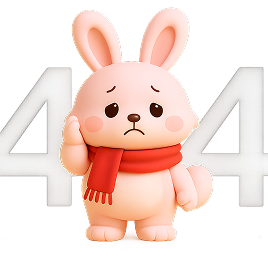
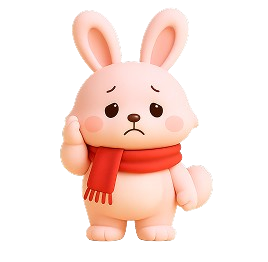
[WL7-210]이번주니어 수정, 404페이지 개발

diff --git a/src/components/junior/StampRouletteCard.tsx b/src/components/junior/StampRouletteCard.tsx
@@ -5,8 +5,7 @@ import CommonModal from '@/components/common/CommonModal';
 import type { Prize } from '@/components/junior/ProbabilityRoulette';
 import ProbabilityRoulette from '@/components/junior/ProbabilityRoulette';
 import { sendRouletteResult } from '@/apis/roulette';
-// 'showToast' 유틸리티의 경로에 맞게 수정해주세요.
-import { showSuccessToast, showErrorToast, showWarningToast } from '@/utils/toast'; // 경로 예시입니다.
+import { showSuccessToast, showErrorToast, showWarningToast } from '@/utils/toast';
 
 type Stamp = {
   name: string;
@@ -17,7 +16,7 @@ type Stamp = {
 type Props = {
   stamps: Stamp[];
   eventId: number;
-  hasExistingResult: boolean;
+  hasExistingResult: boolean; // 부모로부터 받은, 서버에 저장된 룰렛 참여 결과
   isRouletteEnabledByServer: boolean;
 };
 
@@ -29,9 +28,11 @@ const StampRouletteCard: React.FC<Props> = ({
 }) => {
   const [isModalOpen, setIsModalOpen] = useState(false);
   const navigate = useNavigate();
+  // ✨ 컴포넌트 내부 상태를 부모로부터 받은 초기값(hasExistingResult)으로 설정
   const [isRouletteSpun, setIsRouletteSpun] = useState(hasExistingResult);
   const [isProcessing, setIsProcessing] = useState(false);
 
+  // 부모의 prop이 변경될 경우를 대비해 상태를 동기화
   useEffect(() => {
     setIsRouletteSpun(hasExistingResult);
   }, [hasExistingResult]);
@@ -41,42 +42,57 @@ const StampRouletteCard: React.FC<Props> = ({
     displayStamps.push({ name: '-', isStamped: false });
   }
 
-  const isButtonActive = isRouletteEnabledByServer && !isRouletteSpun && !isProcessing;
+  const hasAllStamps = stamps.filter((stamp) => stamp.isStamped).length >= 4;
 
+  // ✨ `hasExistingResult`가 true이면 `isRouletteCompleted`는 처음부터 true가 됨
+  const isRouletteCompleted = hasExistingResult || isRouletteSpun;
+
+  // ✨ `isRouletteCompleted`가 true이므로 `isButtonActive`는 false가 됨
+  const isButtonActive =
+    isRouletteEnabledByServer && !isRouletteCompleted && !isProcessing && hasAllStamps;
+
+  // ✨ `isRouletteCompleted`가 true이므로 `buttonText`는 '참여 완료'가 됨
   let buttonText = '룰렛 돌리기';
   if (isProcessing) {
     buttonText = '결과 저장 중...';
-  } else if (isRouletteSpun) {
+  } else if (isRouletteCompleted) {
     buttonText = '참여 완료';
   } else if (!isRouletteEnabledByServer) {
-    buttonText = '룰렛 비활성'; // 비활성 상태 텍스트를 명확하게 변경
+    buttonText = '룰렛이 비활성화되었습니다';
+  } else if (!hasAllStamps) {
+    buttonText = '스탬프를 모두 모아주세요';
   }
 
   const handleRouletteClick = () => {
-    if (!isButtonActive) return;
-    if (isRouletteSpun) {
-      // alert('이미 룰렛에 참여하셨습니다.'); // 변경
+    if (isRouletteCompleted) {
       showWarningToast('이미 룰렛에 참여하셨습니다.');
       return;
     }
-    if (isProcessing) return;
+    if (isProcessing) {
+      showWarningToast('처리 중입니다. 잠시만 기다려주세요.');
+      return;
+    }
     if (!isRouletteEnabledByServer) {
-      // alert('룰렛이 아직 활성화되지 않았습니다.'); // 변경
       showWarningToast('룰렛이 아직 활성화되지 않았습니다.');
+      return;
+    }
+    if (!hasAllStamps) {
+      showWarningToast('스탬프 4개를 모두 모아야 룰렛에 참여할 수 있습니다.');
       return;
     }
     const token = sessionStorage.getItem('temp_access_token');
     if (!token) {
-      // alert('룰렛을 돌리려면 로그인이 필요합니다.'); // 변경
       showErrorToast('룰렛을 돌리려면 로그인이 필요합니다.');
       navigate('/login');
       return;
     }
-    setIsModalOpen(true);
+    if (isButtonActive) {
+      setIsModalOpen(true);
+    }
   };
 
   const handleRouletteFinish = async (prize: Prize) => {
-    if (isRouletteSpun || isProcessing) return;
+    if (isRouletteCompleted || isProcessing) return;
 
     setIsProcessing(true);
     setIsModalOpen(false);
@@ -84,7 +100,6 @@ const StampRouletteCard: React.FC<Props> = ({
     try {
       await sendRouletteResult(eventId, prize.prizeName);
       setIsRouletteSpun(true);
-      // alert(`축하합니다! '${prize.prizeName.replace('\n', ' ')}'에 당첨되셨습니다!`); // 변경
       showSuccessToast(`축하합니다! '${prize.prizeName.replace('\n', ' ')}'에 당첨!`);
     } catch (error) {
       console.error('룰렛 결과 저장 오류:', error);
@@ -93,10 +108,8 @@ const StampRouletteCard: React.FC<Props> = ({
 
       if (errorMessage.includes('이미') || errorMessage.includes('already')) {
         setIsRouletteSpun(true);
-        // alert('이미 룰렛에 참여하셨습니다.'); // 변경
         showWarningToast('이미 룰렛에 참여하셨습니다.');
       } else {
-        // alert(errorMessage); // 변경
         showErrorToast(errorMessage);
       }
     } finally {
@@ -111,14 +124,11 @@ const StampRouletteCard: React.FC<Props> = ({
   };
 
   return (
-    // ... JSX 부분은 동일 ...
     <div className="relative w-full h-[400px] bg-white p-5">
       <div className="m-2">
         <p className="text-lm font-bold text-black">스탬프</p>
       </div>
       <div className="rounded-lg p-4 space-y-3 border-2 border-zinc-100">
-        {' '}
-        {/* Added padding and spacing */}
         <div className="flex items-start">
           <svg
             width={21}
@@ -208,7 +218,6 @@ const StampRouletteCard: React.FC<Props> = ({
                         isFirst ? 'bg-pink-300' : 'bg-blue-300'
                       }`}
                     >
-                      {/* SVG: 당첨 스탬프 */}
                       <svg
                         width={48}
                         height={48}
@@ -246,7 +255,6 @@ const StampRouletteCard: React.FC<Props> = ({
                     </div>
                   ) : (
                     <div className="w-12 h-12 rounded-full bg-gray-200 flex items-center justify-center opacity-33">
-                      {/* 비활성 스탬프 SVG (회색 처리됨) */}
                       <svg
                         width={48}
                         height={48}
@@ -273,10 +281,15 @@ const StampRouletteCard: React.FC<Props> = ({
           })}
         </div>
         <div className="flex justify-center mt-2">
+          {/* ✨ `isActive` prop에 `isButtonActive`를 전달하여 버튼의 활성/비활성 스타일을 제어 */}
           <MiniButton text={buttonText} onClick={handleRouletteClick} isActive={isButtonActive} />
         </div>
       </div>
-      <CommonModal isOpen={isModalOpen} onClose={handleModalClose} title="행운의 룰렛">
+      <CommonModal
+        isOpen={isModalOpen && !isRouletteCompleted}
+        onClose={handleModalClose}
+        title="행운의 룰렛"
+      >
         <ProbabilityRoulette onFinish={handleRouletteFinish} />
       </CommonModal>
     </div>

diff --git a/src/pages/JuniorPage.tsx b/src/pages/JuniorPage.tsx
@@ -1,18 +1,15 @@
-// src/pages/JuniorPage.tsx (수정된 코드)
-
 import React, { useState, useEffect } from 'react';
 import Header from '@/components/common/Header';
-import LoadingScreen from '@/components/common/LoadingScreen'; // --- [수정] LoadingScreen 컴포넌트 import 추가
-
+import LoadingScreen from '@/components/common/LoadingScreen';
 import EventBanner from '@/components/junior/EventBanner';
 import StampRouletteCard from '@/components/junior/StampRouletteCard';
 import JuniorMap from '@/components/junior/JuniorMap';
 import TodayCouponSection from '@/components/junior/TodayCouponSection';
 import JuniorMarket from '@/components/junior/JuniorMarket';
-
 import { getStampsStatus, type StampSlot } from '@/apis/stamp';
 import { getUserInfo } from '@/apis/user';
 
+// 스탬프 데이터 타입을 정의합니다.
 type Stamp = {
   name: string;
   isStamped: boolean;
@@ -22,10 +19,12 @@ type Stamp = {
 const JuniorPage = () => {
   const [stamps, setStamps] = useState<Stamp[]>([]);
   const [isRouletteAvailable, setIsRouletteAvailable] = useState(false);
+  // ✨ 서버에서 받아온 사용자의 '초기' 룰렛 참여 여부를 저장하는 상태
   const [initialIsSpun, setInitialIsSpun] = useState(false);
   const [isLoading, setIsLoading] = useState(true);
   const [error, setError] = useState<string | null>(null);
 
+  // 현재 진행 중인 이벤트 ID
   const currentEventId = 2;
 
   useEffect(() => {
@@ -38,18 +37,27 @@ const JuniorPage = () => {
       }
       try {
         setIsLoading(true);
+        // 사용자 정보와 스탬프 상태를 동시에 API로 요청합니다.
         const [userInfo, stampStatus] = await Promise.all([
           getUserInfo(),
           getStampsStatus(currentEventId),
         ]);
 
+        // ✨ --- 가장 중요한 로직 --- ✨
+        // API 응답(userInfo)에서 rouletteResults 배열을 확인합니다.
+        // `some` 메서드를 사용해, 현재 이벤트 ID와 일치하고 `participated`가 true인 기록이 있는지 확인합니다.
         const hasParticipated =
           userInfo.rouletteResults?.some(
             (result) => result.event.unearEventId === currentEventId && result.participated
-          ) || false;
+          ) || false; // 기록이 없으면 false
+
+        // 확인된 참여 여부(true 또는 false)를 상태에 저장합니다.
         setInitialIsSpun(hasParticipated);
+        // ✨ --- 여기까지 --- ✨
+
         setIsRouletteAvailable(stampStatus.rouletteAvailable);
 
+        // 스탬프 데이터를 가공합니다.
         const newStamps: Stamp[] = stampStatus.stamps.map((slot: StampSlot) => ({
           name: slot.stamped ? slot.placeName : '-',
           isStamped: slot.stamped,
@@ -80,13 +88,12 @@ const JuniorPage = () => {
     };
 
     fetchEventData();
-  }, [currentEventId]);
+  }, [currentEventId]); // currentEventId가 변경될 때마다 데이터를 다시 가져옵니다.
 
   if (isLoading) {
     return (
       <>
         <Header title="이번주니어" />
-        {/* === 반응형 적용을 위해 컨테이너 추가 === */}
         <div className="w-full max-w-[600px] mx-auto">
           <LoadingScreen
             fullHeight={false}
@@ -102,7 +109,6 @@ const JuniorPage = () => {
     return (
       <>
         <Header title="이번주니어" />
-        {/* === 반응형 적용을 위해 컨테이너 추가 === */}
         <div className="w-full max-w-[600px] mx-auto">
           <div className="p-10 text-center text-red-500">{error}</div>
         </div>
@@ -113,10 +119,10 @@ const JuniorPage = () => {
   return (
     <>
       <Header title="이번주니어" />
-      {/* === 반응형 적용을 위해 최상위 컨테이너 수정 === */}
       <div className="w-full max-w-[600px] mx-auto flex flex-col items-center">
         <EventBanner />
         <div className="flex flex-col gap-3 items-center w-full">
+          {/* ✨ 자식 컴포넌트에 `hasExistingResult` prop으로 참여 여부를 전달합니다. */}
           <StampRouletteCard
             stamps={stamps}
             eventId={currentEventId}

diff --git a/src/router/index.tsx b/src/router/index.tsx
@@ -29,6 +29,8 @@ import { AuthProvider } from '@/providers/AuthProvider';
 import ProtectedRoute from '@/components/common/ProtectedRoute';
 import ErrorBoundary from '@/components/error/ErrorBoundary';
 
+import NotFoundPage from '@/pages/NotFoundPage';
+
 const router = createBrowserRouter([
   {
     element: <Default />,
@@ -183,6 +185,12 @@ const router = createBrowserRouter([
 
       { path: '/login/oauth2/code/naver', element: <NaverAuthHandler /> },
     ],
+  },
+  {
+    // 2. NotFoundPage를 위한 라우트를 Default 레이아웃 밖으로 빼냅니다.
+    // 이렇게 하면 Default 레이아웃과 그 안의 BottomNavigator가 적용되지 않습니다.
+    path: '*',
+    element: <NotFoundPage />,
   },
 ]);
 

diff --git a/src/components/junior/MapContainer.tsx b/src/components/junior/MapContainer.tsx
@@ -88,7 +88,6 @@ const MapContainer = forwardRef<MapActions>((props, ref) => {
       const container = mapRef.current;
       if (!container) return;
 
-      // [수정] 지도 생성자 옵션에 확대/축소 관련 설정을 추가합니다.
       const mapInstance = new window.kakao.maps.Map(container, {
         center: new window.kakao.maps.LatLng(37.544581, 127.055961),
         level: 6,
@@ -139,7 +138,6 @@ const MapContainer = forwardRef<MapActions>((props, ref) => {
 
     window.addEventListener('resize', handleResize);
 
-    // 컴포넌트 언마운트 시 이벤트 리스너 제거
     return () => {
       window.removeEventListener('resize', handleResize);
     };

diff --git a/src/components/junior/EventBanner.tsx b/src/components/junior/EventBanner.tsx
@@ -15,9 +15,7 @@ const EventBanner = () => {
   };
 
   return (
-    // [수정] 고정 너비를 w-full로 변경하여 반응형으로 만듭니다.
     <div className="w-full h-[142px] relative overflow-hidden bg-[linear-gradient(142.88deg,#e6007e_-1.96%,rgba(230,0,126,0.85)_50%,#be185d_101.96%)]">
-      {/* [수정] 고정 너비를 w-full로 변경합니다. */}
       <div className="w-full h-[109px] relative">
         <div className="flex flex-col justify-start items-start absolute left-5 top-[30px] max-w-[calc(100%-130px)]">
           <p className="flex-grow-0 flex-shrink-0 text-xl font-bold text-left text-white">

diff --git a/src/pages/NotFoundPage.tsx b/src/pages/NotFoundPage.tsx
@@ -1,0 +1,12 @@
+import Image404 from '@/assets/common/404nubi.png';
+
+export default function NotFoundPage() {
+  return (
+    <div className="w-full h-[852px] bg-background flex flex-col items-center justify-center space-y-8">
+      <img src={Image404} alt="404-state" className="w-[268px] h-[262px]  object-cover" />
+      <p className="text-lg font-semibold text-black text-center">
+        요청하신 페이지를 찾을 수 없어요
+      </p>
+    </div>
+  );
+}

diff --git a/src/components/junior/ProbabilityRoulette.tsx b/src/components/junior/ProbabilityRoulette.tsx
@@ -60,7 +60,7 @@ const ProbabilityRoulette: React.FC<Props> = ({ onFinish }) => {
     // CSS transition 시간과 동일하게 설정
     setTimeout(() => {
       const finalResult = prizeData[selectedIndex];
-      // [핵심] 애니메이션 종료 후, 부모에게 결과값을 전달
+      // 애니메이션 종료 후, 부모에게 결과값을 전달
       onFinish(finalResult);
 
       // 스핀이 끝나면 UI 상태를 초기화할 수 있지만,

diff --git a/src/components/junior/JuniorMap.tsx b/src/components/junior/JuniorMap.tsx
@@ -3,7 +3,7 @@
 import { forwardRef } from 'react';
 import MapContainer, { type MapActions } from '@/components/junior/MapContainer';
 
-// [수정] forwardRef를 사용하여 부모 컴포넌트로부터 ref를 전달받음
+// forwardRef를 사용하여 부모 컴포넌트로부터 ref를 전달받음
 const JuniorMap = forwardRef<MapActions>((props, ref) => {
   return (
     <div className="w-full p-4 bg-white">

diff --git a/src/components/junior/BookmarkCard.tsx b/src/components/junior/BookmarkCard.tsx
@@ -47,7 +47,7 @@ export interface StoreInfo {
   isBookmarked: boolean;
   benefitDesc?: string;
   coupons?: CouponInfo[];
-  phoneNumber?: string; // 전화번호 추가
+  phoneNumber?: string;
 }
 
 // BookmarkCard의 props 타입 정의

diff --git a/src/components/junior/Roulette.tsx b/src/components/junior/Roulette.tsx
@@ -1,6 +1,6 @@
 import React, { useState } from 'react';
 import { styled } from '@mui/system';
-// 'clsx' import 라인을 삭제했습니다.
+
 import { FiArrowRight } from 'react-icons/fi';
 
 interface PrizeData {
